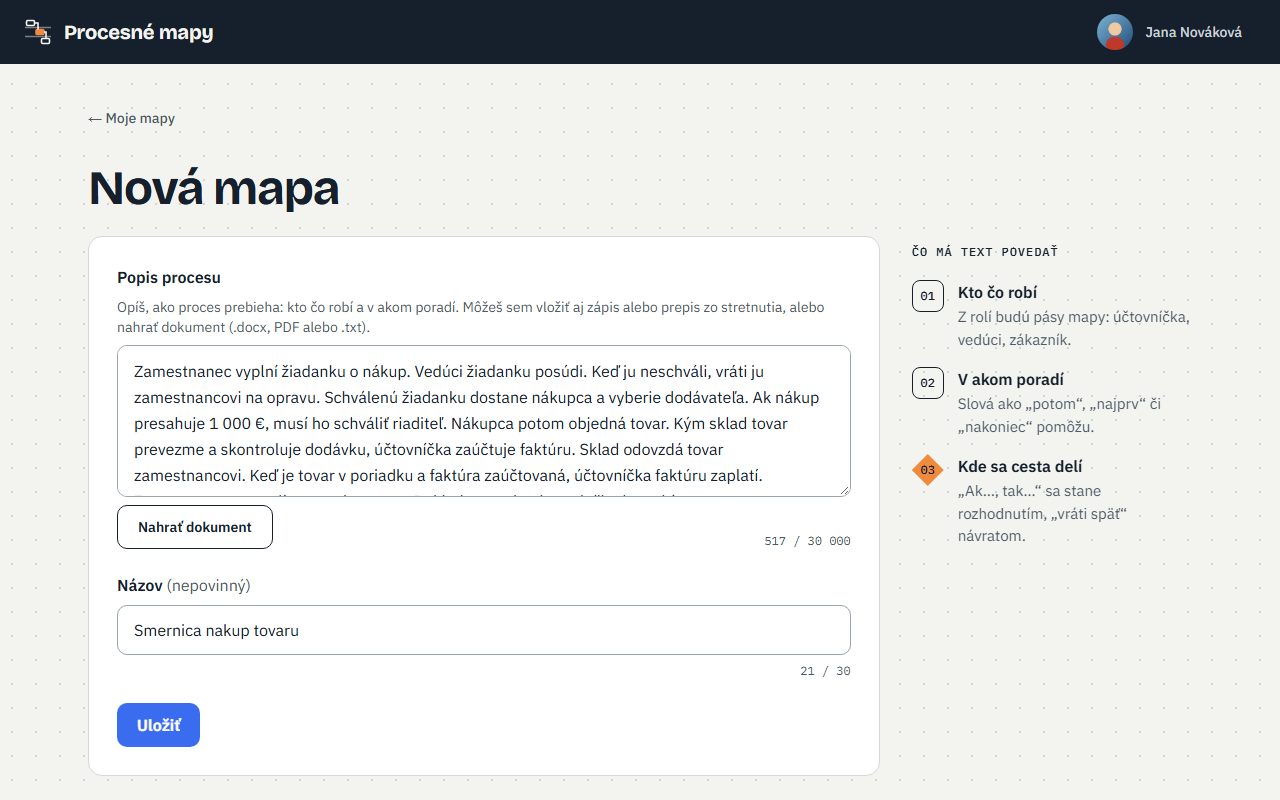
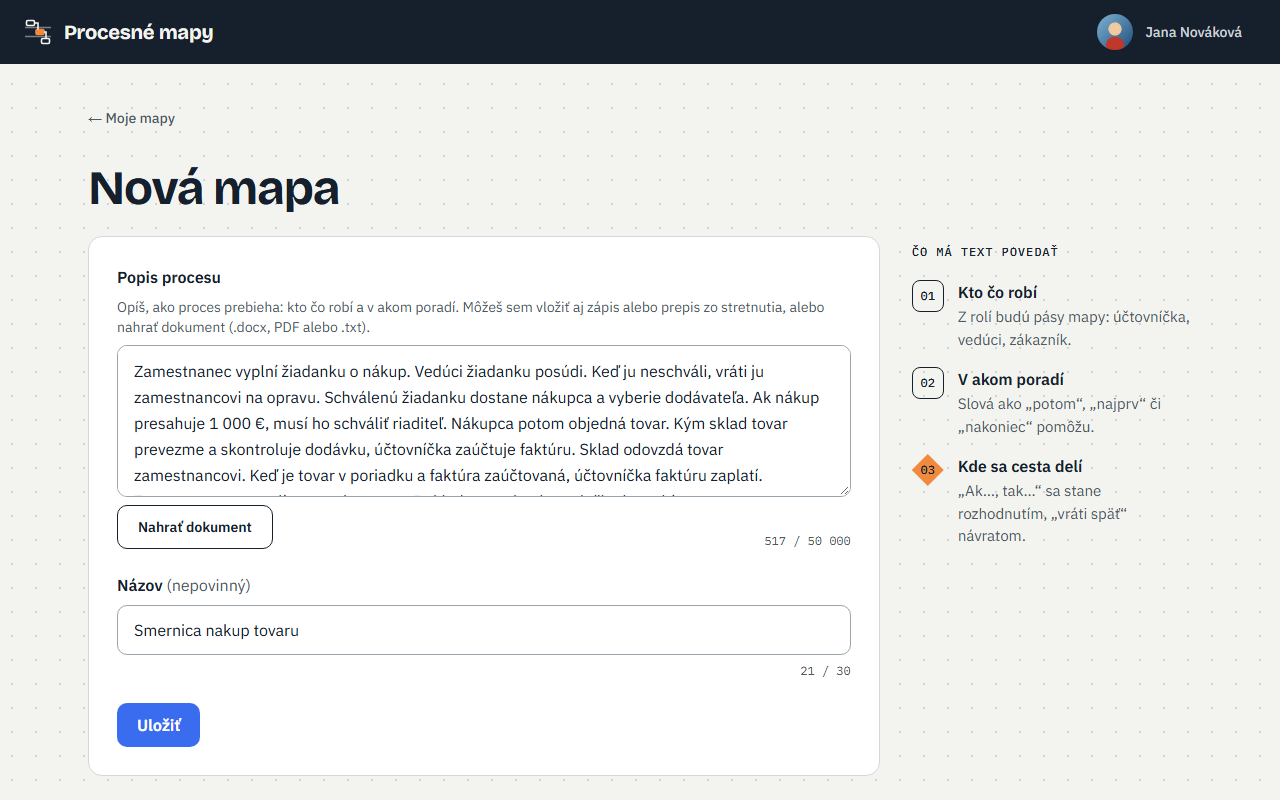
Dokumentácia podľa stavu z 2026-11-01.

Changed region(s): [[0.75, 0.4688, 0.9062, 0.6875], [0.75, 0.3125, 0.9375, 0.4375]]

diff --git a/index.md b/index.md
@@ -4,7 +4,7 @@ title: "Procesné mapy: čo appka zatiaľ vie"
 
 # Procesné mapy: čo appka zatiaľ vie
 
-Stav k 1. 11. 2026 o 8:54.
+Stav k 1. 11. 2026 o 9:25.
 
 Procesné mapy je webová aplikácia, ktorá z popisu procesu urobí procesnú mapu. Dnes vie z vloženého textu, textového súboru, dokumentu vo Worde alebo PDF nakresliť prehľadovú mapu s krokmi rozdelenými podľa rolí, ktorýkoľvek krok rozpísať na detailnú mapu a mapu ručne opraviť. Hotovú mapu môžeš poslať odkazom niekomu, kto nemá účet, alebo si ju stiahnuť ako obrázok či PDF. Je zadarmo, s limitom 15 analýz mesačne na účet.
 
@@ -33,7 +33,7 @@ Po zrušení účtu ti príde e-mail „Tvoj účet bol zrušený“ ako potvrde
 
 Nová mapa vzniká z textu, ktorý vložíš alebo napíšeš. Môže to byť aj skopírovaný zápis či prepis zo stretnutia.
 
-- Text má 30 až 30 000 znakov, počítadlo pod poľom ukazuje, koľko sa ešte zmestí. Pole sa prispôsobí oknu a potiahnutím za roh sa dá zväčšiť.
+- Text má 30 až 50 000 znakov, počítadlo pod poľom ukazuje, koľko sa ešte zmestí. Pole sa prispôsobí oknu a potiahnutím za roh sa dá zväčšiť.
 - Názov je nepovinný, najviac 30 znakov. Bez názvu mapu pomenuje AI pri analýze.
 - Zoznam „Moje mapy“ ukazuje názov, dátum, čas a stav každej mapy, najnovšie hore. Kým nemáš žiadnu mapu, stránka ukáže znudené oranžové rozhodnutie a tlačidlo „Dať mu prácu“, ktoré vedie na novú mapu. Tlačidlo „Upraviť“ pri mape otvorí jej detail a až tam si vyberieš, či chceš upraviť text mapy, alebo samotnú mapu.
 - Text aj názov sa dajú kedykoľvek upraviť.
@@ -86,7 +86,7 @@ Každá úspešná analýza je nová verzia mapy aj s textom, z ktorého vznikla
 | Analýzy na účet | 15 mesačne, obnoví sa 1. dňa v mesiaci |
 | Mapy na účet | 200 |
 | Verzie na mapu | 10 |
-| Dĺžka textu | 30 až 30 000 znakov |
+| Dĺžka textu | 30 až 50 000 znakov |
 | Rozpísania krokov na účet | 30 mesačne, obnoví sa 1. dňa v mesiaci |
 
 Návrat k verzii limit neminie. Pri analýze vidíš, koľko analýz ti tento mesiac ostáva.
